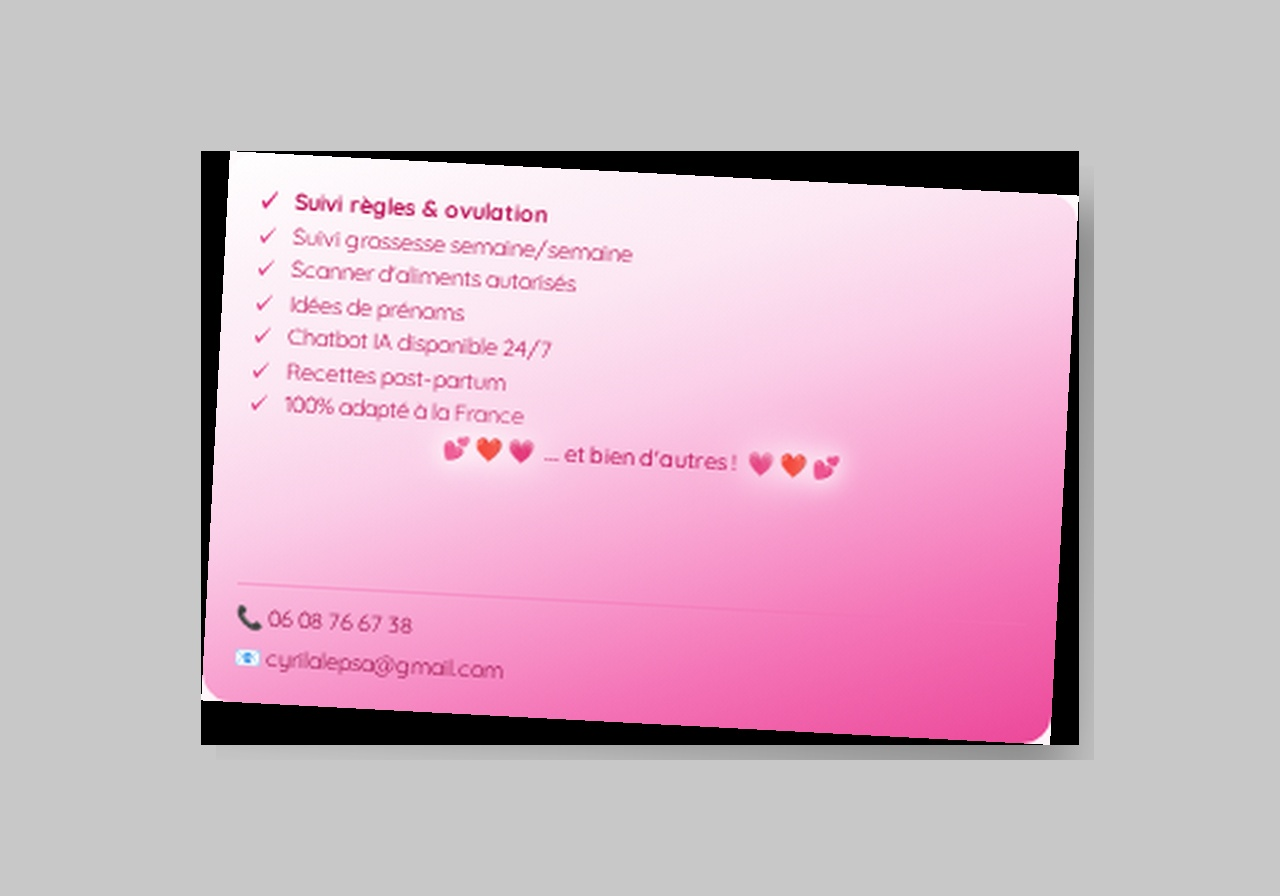
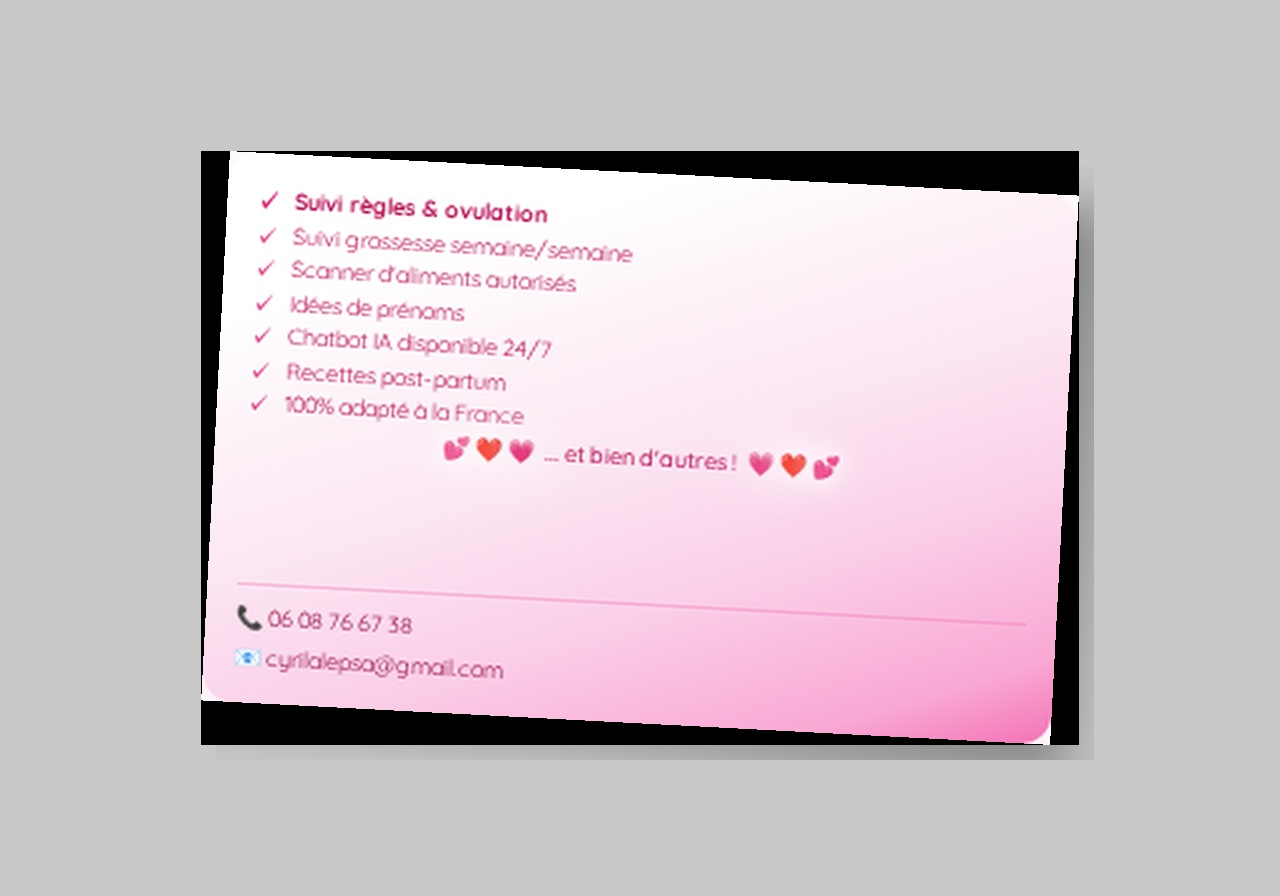
auto-commit for 4db65c0e-b036-4b48-8bdd-e9dbee3d62ad

Changed region(s): [[0.1562, 0.25, 0.8438, 0.8438]]

diff --git a/frontend/src/pages/CarteVisitePage.js b/frontend/src/pages/CarteVisitePage.js
@@ -273,7 +273,7 @@ export default function CarteVisitePage() {
                     className="w-full max-w-[340px] mx-auto aspect-[85/55] rounded-xl overflow-hidden p-3 flex flex-col justify-between"
                     style={{ 
                       boxShadow: '0 10px 40px rgba(236, 72, 153, 0.15)',
-                      background: 'linear-gradient(160deg, #ffffff 0%, #fdf2f8 15%, #fce7f3 30%, #fbcfe8 45%, #f9a8d4 60%, #f472b6 80%, #ec4899 100%)'
+                      background: 'linear-gradient(160deg, #ffffff 0%, #ffffff 20%, #fdf2f8 35%, #fce7f3 50%, #fbcfe8 70%, #f9a8d4 90%, #f472b6 100%)'
                     }}
                   >
                     <ul className="space-y-0 text-left">
